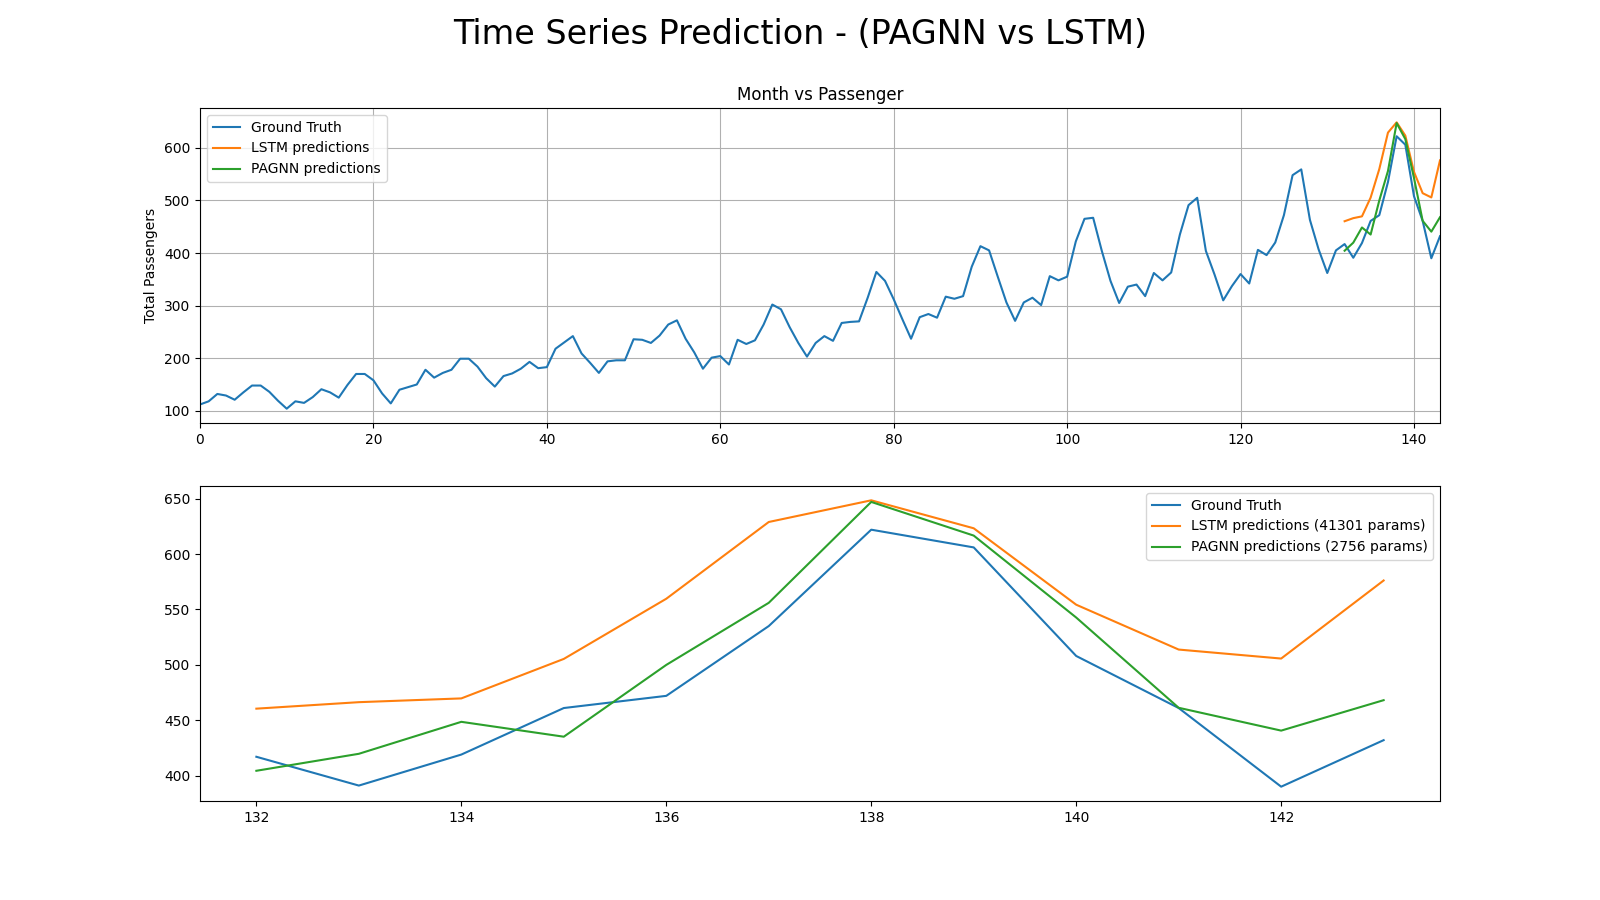
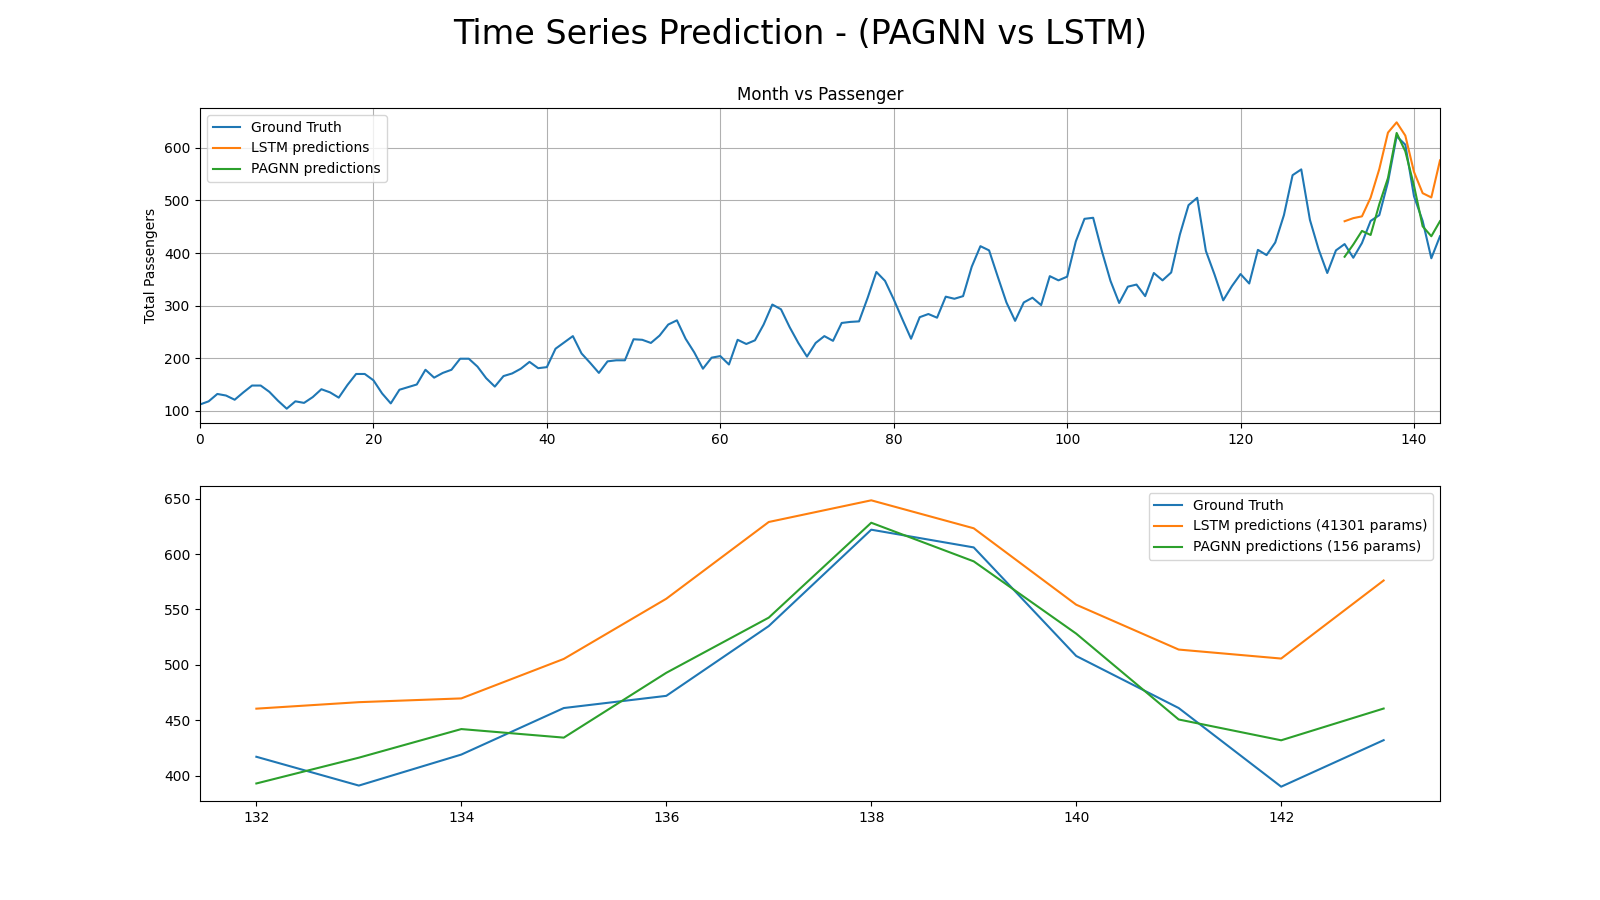
reduce #params by 1600, which BOOSTS performance significantly...

diff --git a/examples/time_series.py b/examples/time_series.py
@@ -53,7 +53,7 @@ if __name__ == '__main__':
     loss_function = nn.MSELoss()
     optimizer = torch.optim.Adam(model.parameters(), lr=0.001)
 
-    pagnn_model = PAGNNLayer(1, 1, 50, steps=1, retain_state=False).to(device)
+    pagnn_model = PAGNNLayer(1, 1, 10, steps=1, retain_state=False).to(device)
     pagnn_optimizer = torch.optim.Adam(pagnn_model.parameters(), lr=0.001)
 
     epochs = 300
